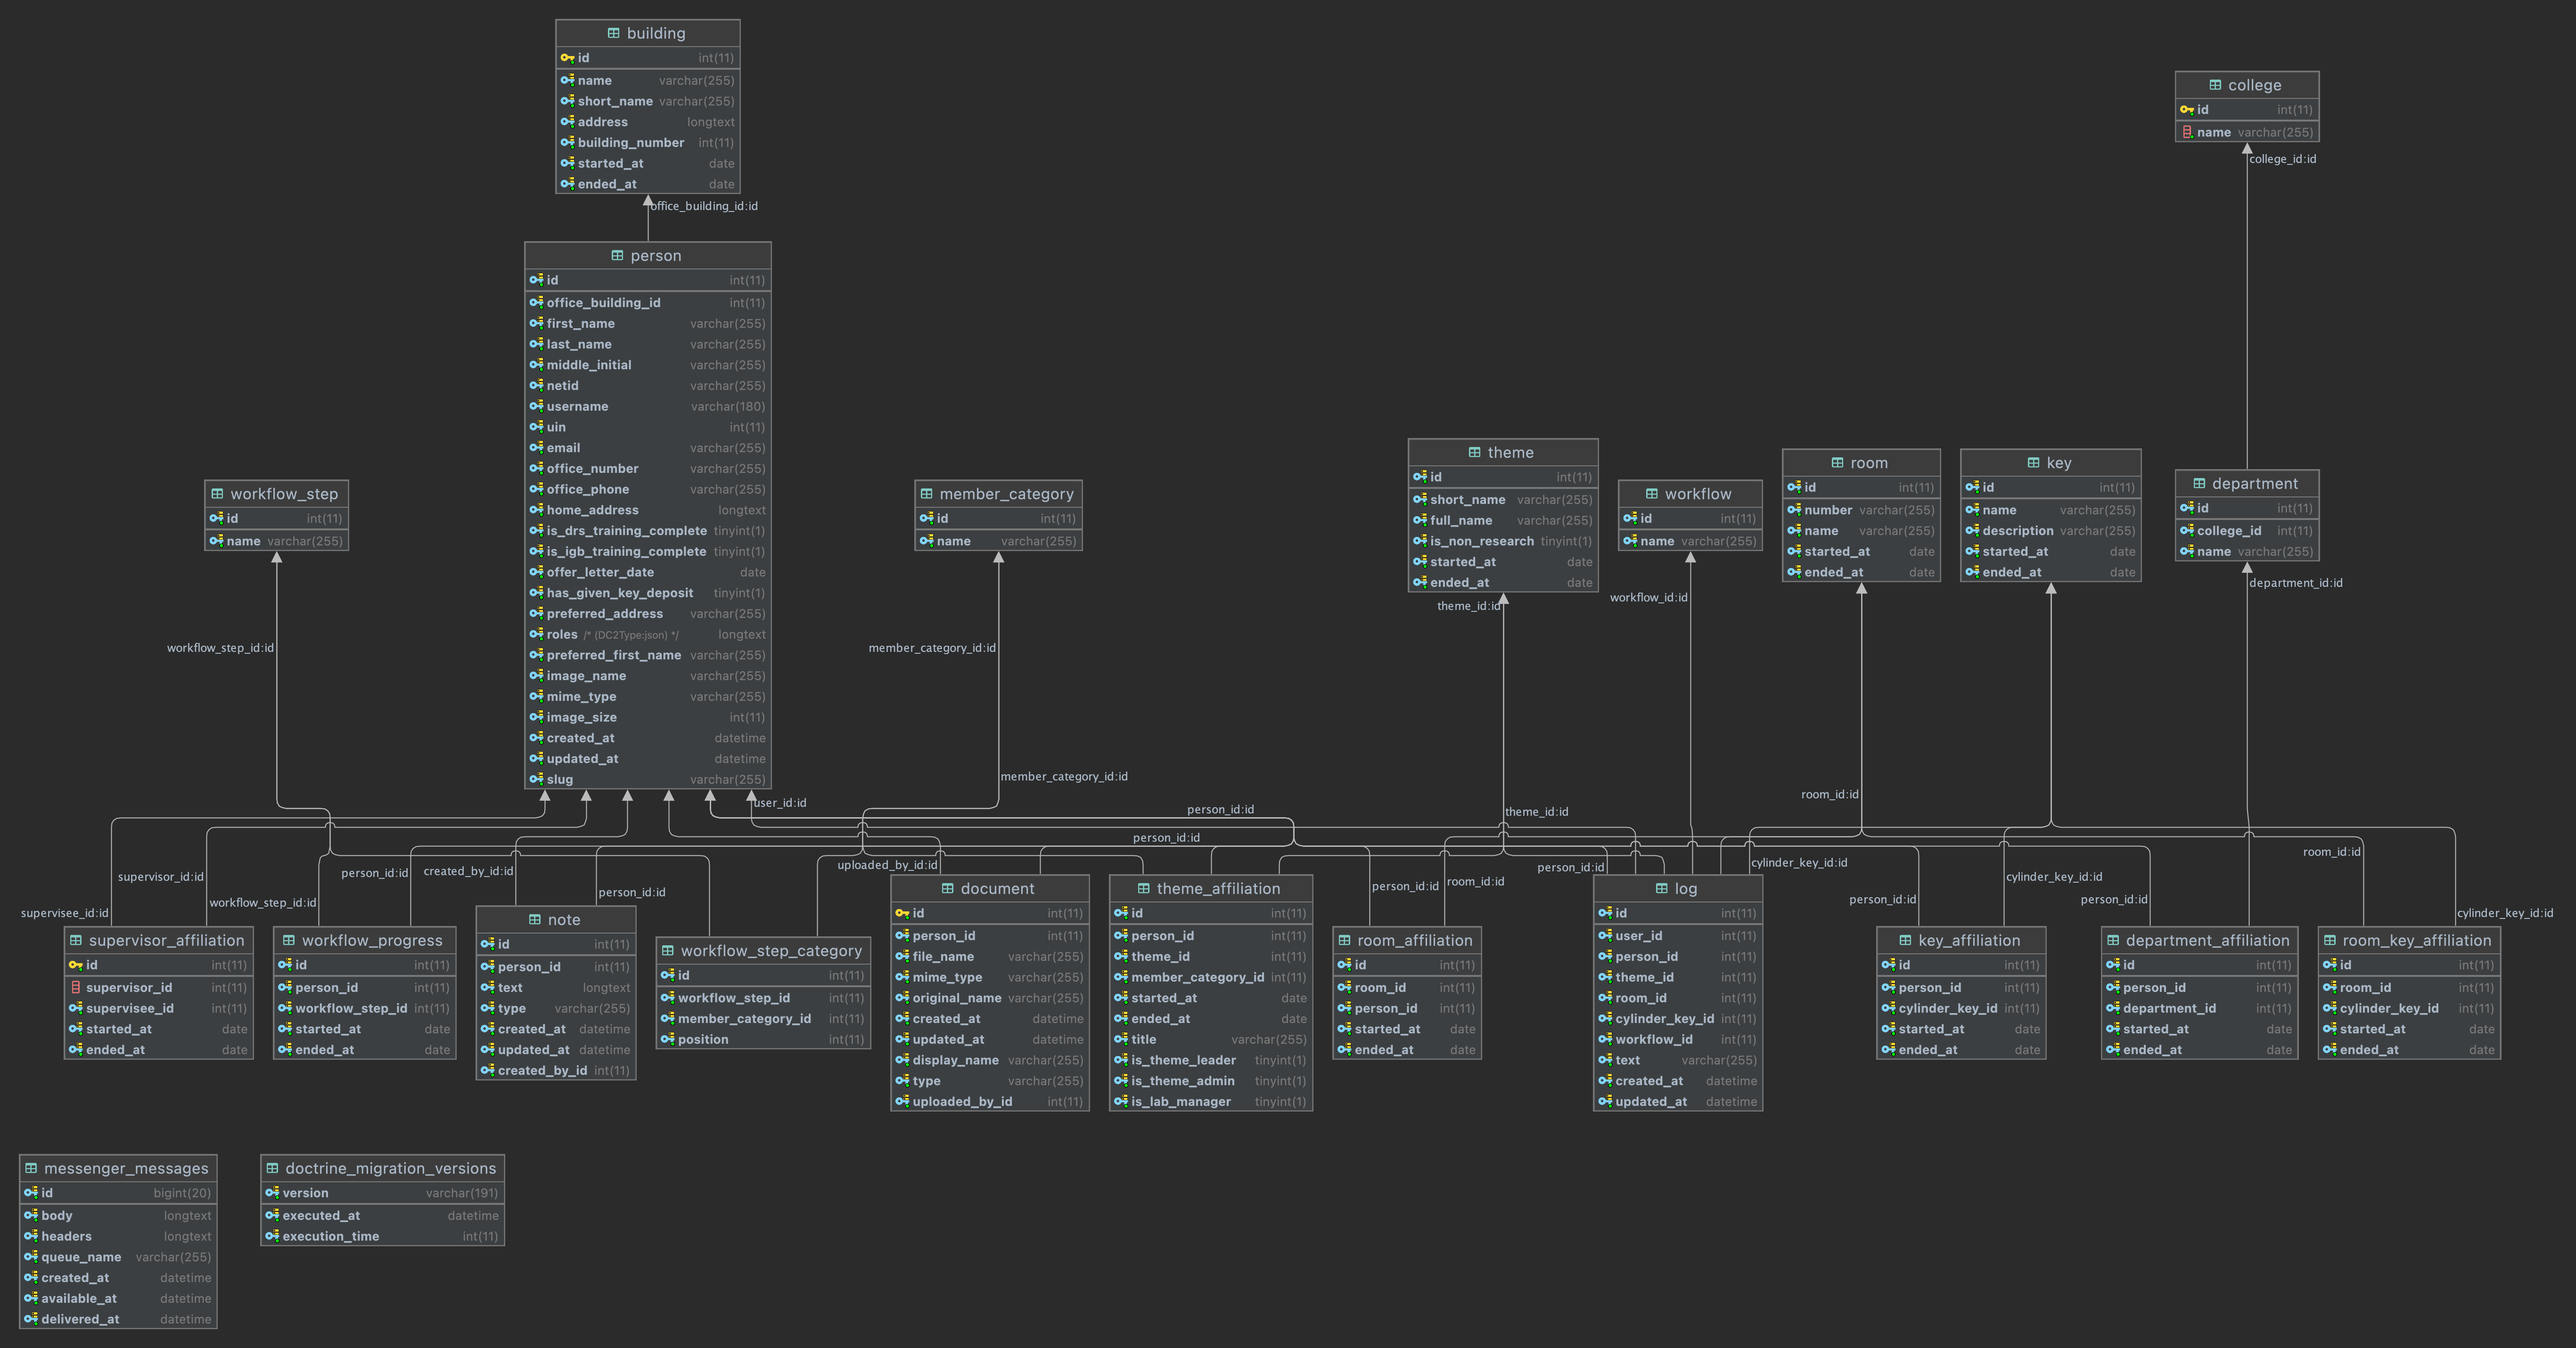
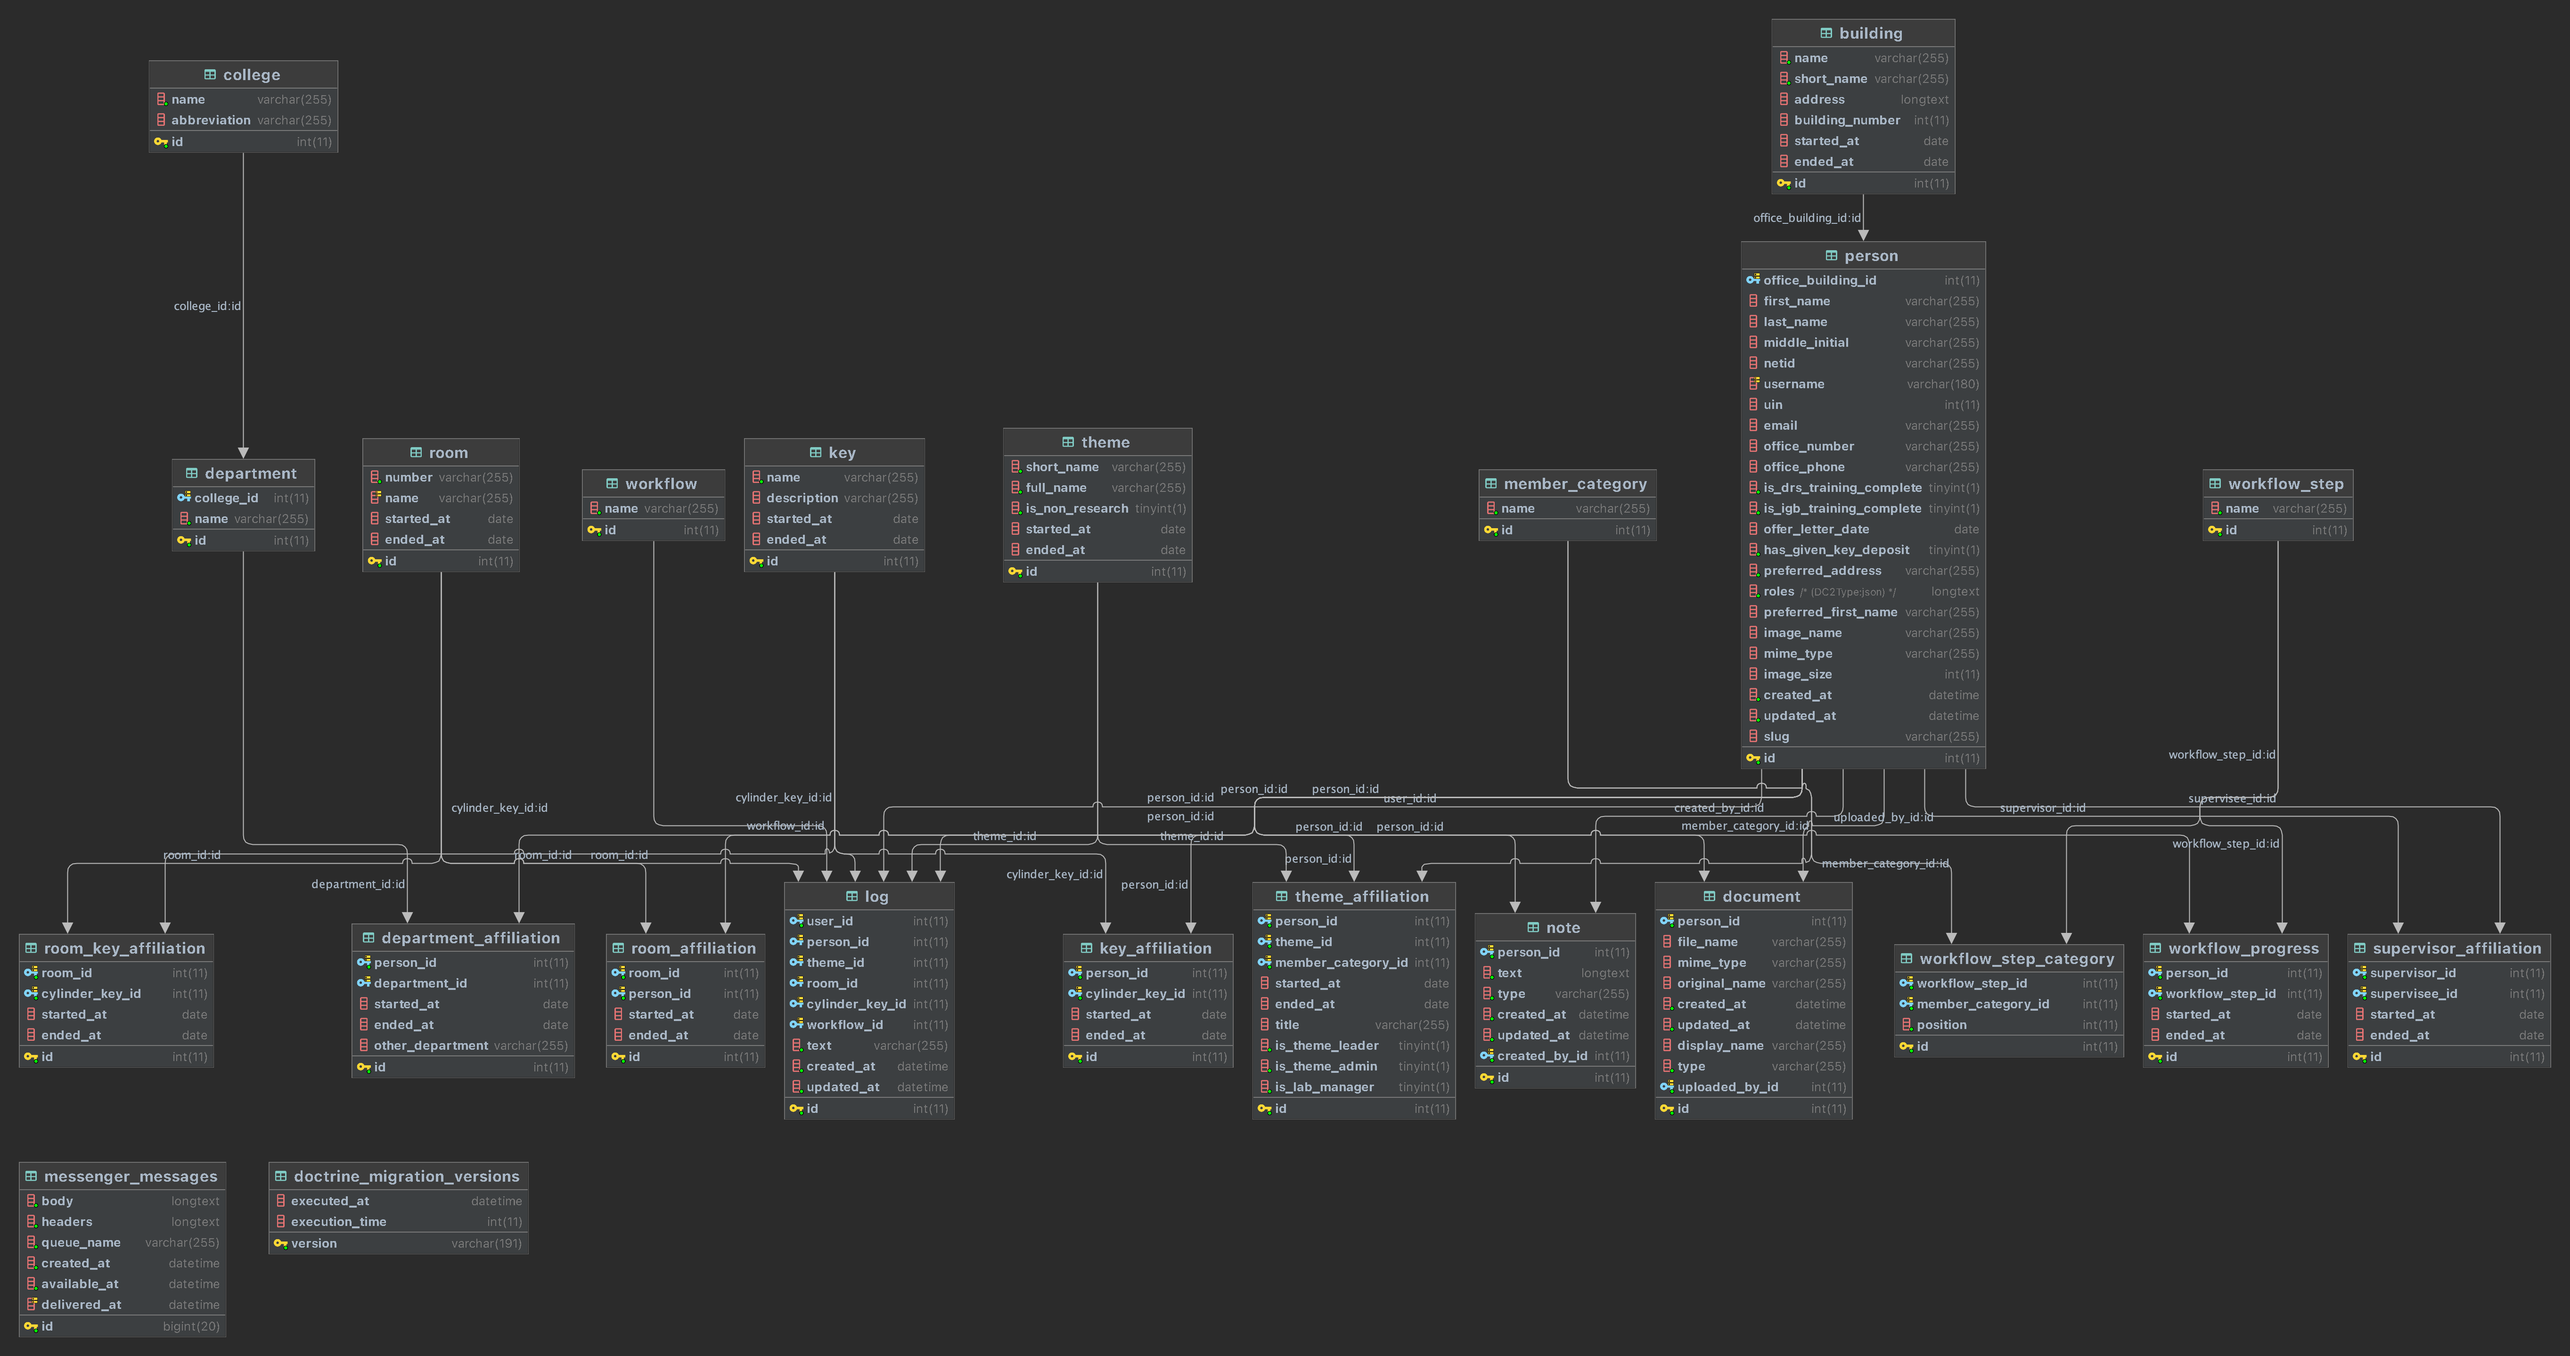
Add "Other" option for department

diff --git a/assets/personForm.js b/assets/personForm.js
@@ -49,3 +49,13 @@ $('#person_superviseeAffiliations').formCollection({
         $(new_elem).find('.connect-select2').select2();
     },
 });
+
+$('body').on('change', '.departmentSelect', function(){
+    const $this = $(this);
+    const otherInput = $this.closest('.collection-row').find('.otherDepartmentInput');
+    if($this.val() == ""){
+        otherInput.prop("disabled", false);
+    } else {
+        otherInput.prop("disabled", true).val("");
+    }
+});

diff --git a/src/Form/Person/DepartmentAffiliationType.php b/src/Form/Person/DepartmentAffiliationType.php
@@ -12,6 +12,7 @@ use App\Form\Fields\EndDateType;
 use App\Form\Fields\StartDateType;
 use Symfony\Bridge\Doctrine\Form\Type\EntityType;
 use Symfony\Component\Form\AbstractType;
+use Symfony\Component\Form\Extension\Core\Type\TextType;
 use Symfony\Component\Form\FormBuilderInterface;
 use Symfony\Component\Form\FormEvent;
 use Symfony\Component\Form\FormEvents;
@@ -37,9 +38,18 @@ class DepartmentAffiliationType extends AbstractType
                     $form->add('department', EntityType::class, [
                         'class' => Department::class,
                         'attr' => [
-                            'class' => 'connect-select2',
+                            'class' => 'connect-select2 departmentSelect',
                         ],
-                    ]);
+                        'required' => false,
+                        'placeholder' => 'Other (please specify)'
+                    ])
+                        ->add('otherDepartment', TextType::class, [
+                            'required' => false,
+                            'attr' => [
+                                'class' => 'otherDepartmentInput',
+                            ],
+                        ])
+                    ;
                 }
             })
         ;

diff --git a/migrations/Version20220425131322.php b/migrations/Version20220425131322.php
@@ -1,0 +1,31 @@
+<?php
+
+declare(strict_types=1);
+
+namespace DoctrineMigrations;
+
+use Doctrine\DBAL\Schema\Schema;
+use Doctrine\Migrations\AbstractMigration;
+
+/**
+ * Auto-generated Migration: Please modify to your needs!
+ */
+final class Version20220425131322 extends AbstractMigration
+{
+    public function getDescription(): string
+    {
+        return '';
+    }
+
+    public function up(Schema $schema): void
+    {
+        // this up() migration is auto-generated, please modify it to your needs
+        $this->addSql('ALTER TABLE department_affiliation ADD other_department VARCHAR(255) DEFAULT NULL, CHANGE department_id department_id INT DEFAULT NULL');
+    }
+
+    public function down(Schema $schema): void
+    {
+        // this down() migration is auto-generated, please modify it to your needs
+        $this->addSql('ALTER TABLE department_affiliation DROP other_department, CHANGE department_id department_id INT NOT NULL');
+    }
+}

diff --git a/src/Entity/DepartmentAffiliation.php b/src/Entity/DepartmentAffiliation.php
@@ -24,8 +24,10 @@ class DepartmentAffiliation
     private $person;
 
     #[ORM\ManyToOne(targetEntity: Department::class, inversedBy: 'departmentAffiliations')]
-    #[ORM\JoinColumn(nullable: false)]
     private $department;
+
+    #[ORM\Column(type: 'string', length: 255, nullable: true)]
+    private $otherDepartment;
 
     public function getId(): ?int
     {
@@ -52,6 +54,18 @@ class DepartmentAffiliation
     public function setDepartment(?Department $department): self
     {
         $this->department = $department;
+
+        return $this;
+    }
+
+    public function getOtherDepartment(): ?string
+    {
+        return $this->otherDepartment;
+    }
+
+    public function setOtherDepartment(?string $otherDepartment): self
+    {
+        $this->otherDepartment = $otherDepartment;
 
         return $this;
     }
